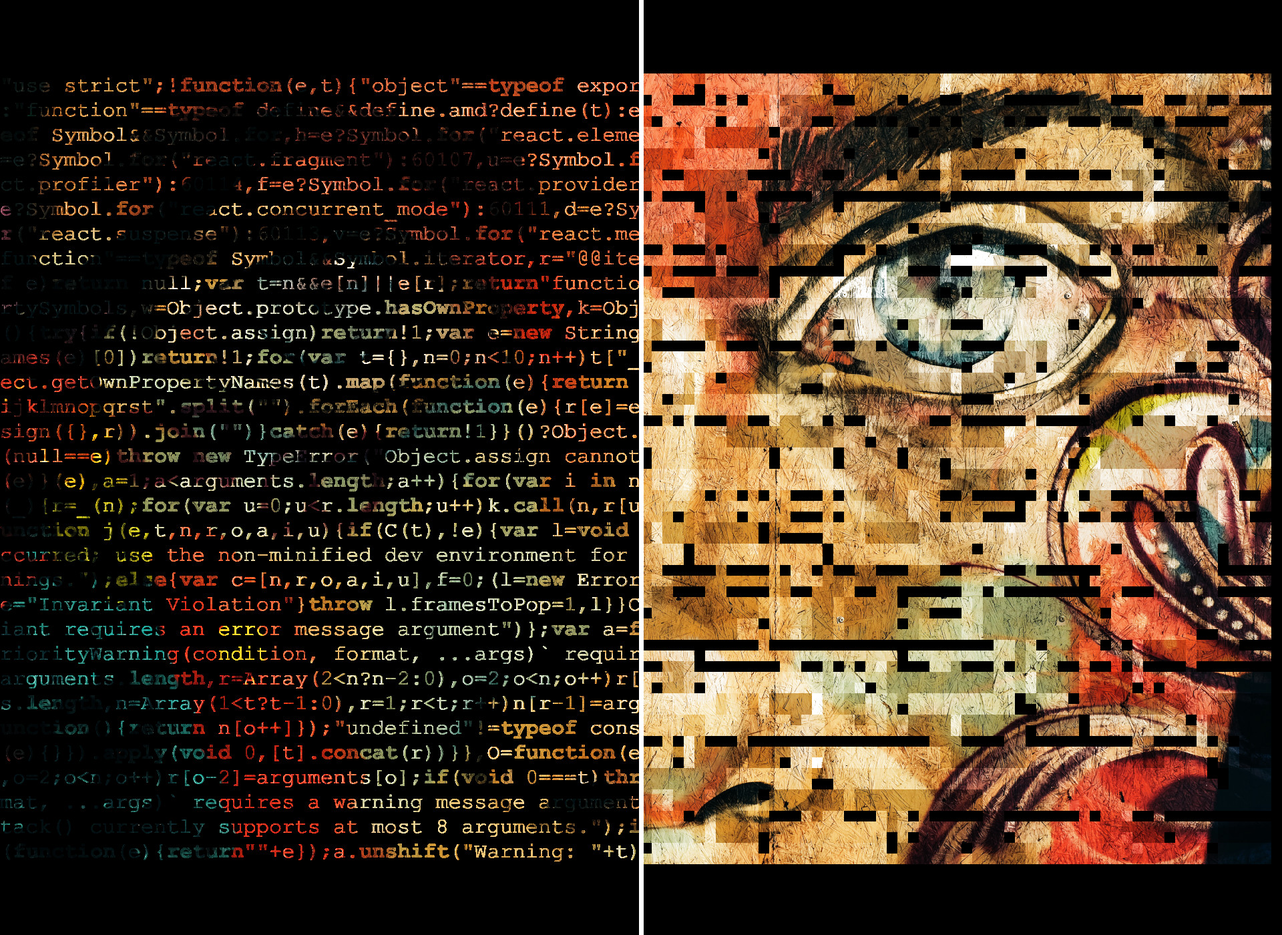
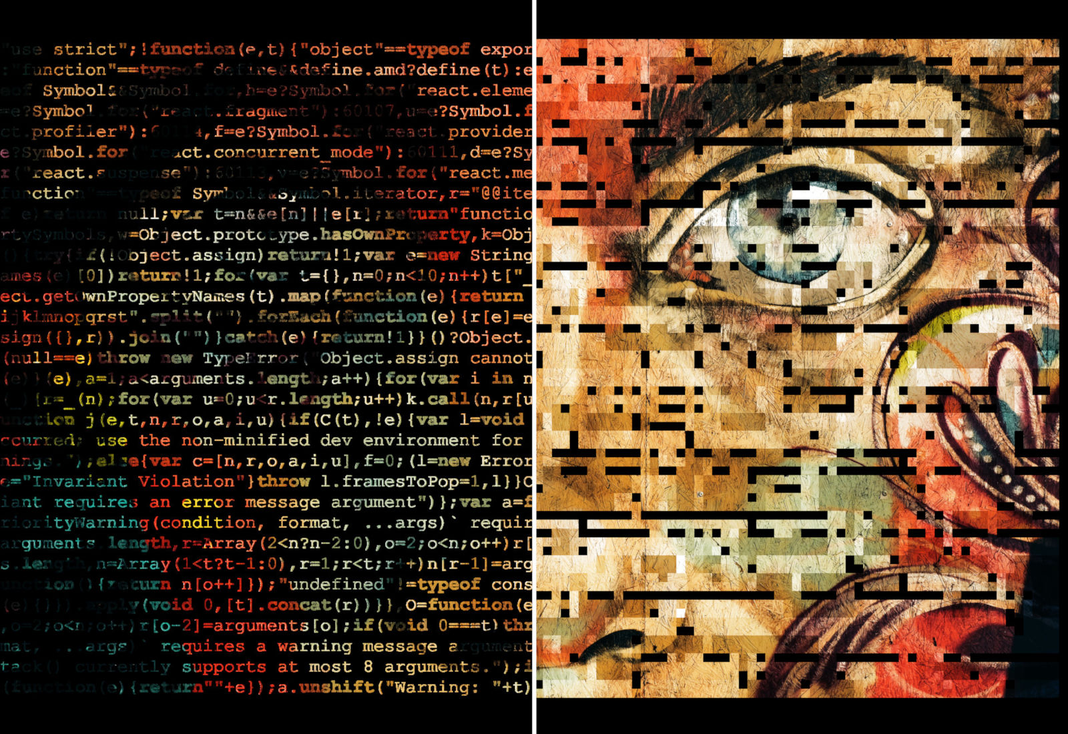
update landing

diff --git a/pages/index.js b/pages/index.js
@@ -41,13 +41,13 @@ class Index extends React.Component {
 
     return (
       <React.Fragment>
-        {/* <div className="landing1" onClick={this.handleScrollToMain}> */}
-        <img
-          src={landing1}
-          alt="Codefully | The art of software engineering"
-          className="landing1"
-        />
-        {/* </div> */}
+        <div className="landing1-bg">
+          <img
+            src={landing1}
+            alt="Codefully | The art of software engineering"
+            className="landing1"
+          />
+        </div>
 
         {/* <Navbar /> */}
         <div className="hero" ref={this.main}>

diff --git a/css/index.scss b/css/index.scss
@@ -23,24 +23,13 @@ body {
 
 .landing1 {
   width: 100%;
+  max-width: 1600px;
 }
 
 .landing1-bg {
-  color: #fff;
-  font-family: "Advent Pro", sans-serif !important;
-  font-weight: 300;
-  font-size: 2rem;
-  height: 100vh;
-  background-image: url("../images/code-art-3.gif");
-  background-size: cover;
-  background-position: 33% 0;
-  background-attachment: fixed;
-  background-repeat: no-repeat;
-  background-color: #000;
   display: flex;
-  align-items: flex-end;
+  background-color: #000;
   justify-content: center;
-  padding-bottom: 3rem;
 }
 
 h1,
